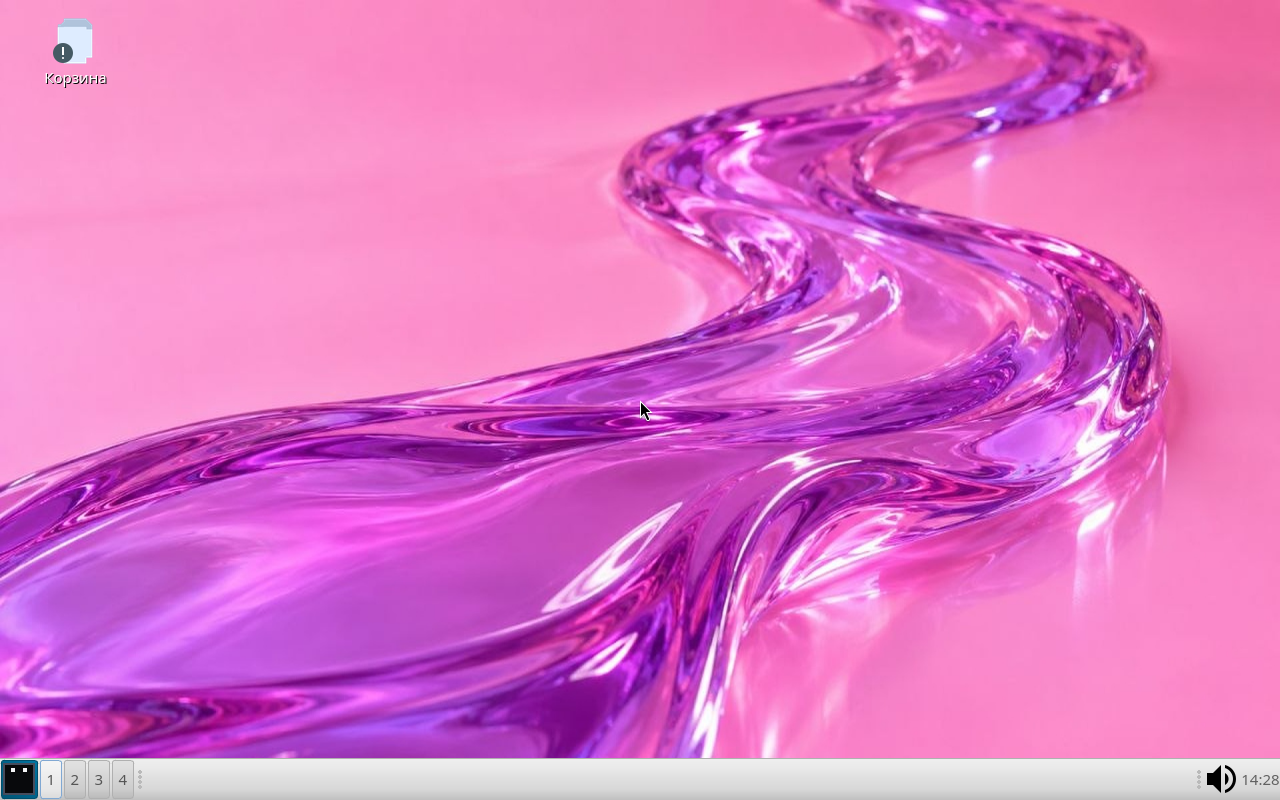
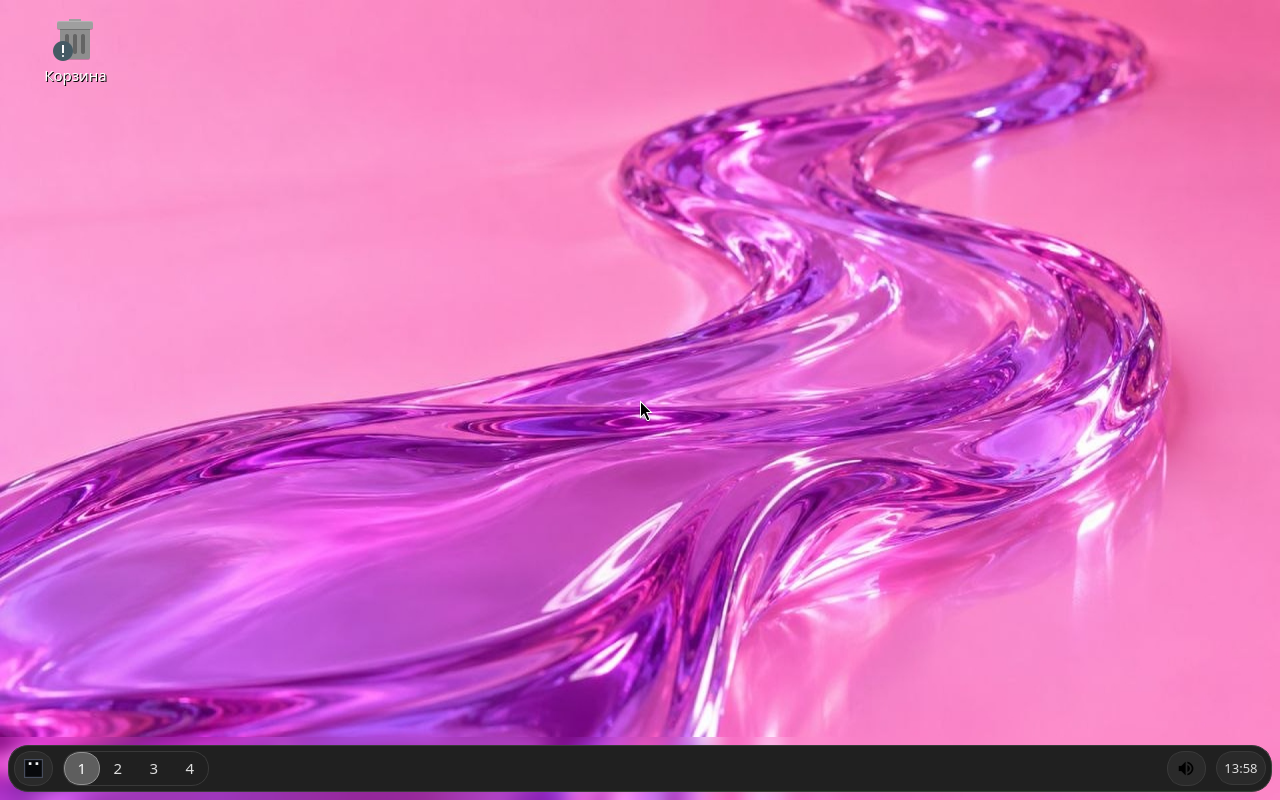
README: скриншоты Onyxian-Rounded из CI smoke-теста (BIOS + EFI/OVMF), актуальный текст про CI и автологин anon; кадры menu/terminal старой темы убраны до пересъёмки; docs/screens исключены из триггеров CI

Changed region(s): [[0.0, 0.9062, 1.0, 1.0], [0.0312, 0.0, 0.0938, 0.125]]

diff --git a/README.md b/README.md
@@ -55,15 +55,19 @@ Debian**: только база, наш рабочий стол и наш бре
 
 ## Скриншоты
 
-Кадры из live-образа (QEMU, Debian trixie, LXQt 2.1 + picom):
+Кадры из live-образа (QEMU, Debian trixie, LXQt 2.1 + picom, тема
+Onyxian-Rounded + Kvantum Orchis-solidDark):
 
 ![Меню загрузчика PhotonOS](docs/screens/grub.png)
 
-![Рабочий стол PhotonOS — панель-док с фирменным логотипом, часы, трей](docs/screens/desktop.png)
+![Рабочий стол PhotonOS — Onyxian-Rounded: плавающая панель-док, куб-меню, часы, трей](docs/screens/desktop.png)
 
-| Меню приложений | photon-fetch в qterminal |
-| --- | --- |
-| ![Меню приложений PhotonOS](docs/screens/menu.png) | ![photon-fetch в qterminal](docs/screens/terminal.png) |
+![Тот же рабочий стол при EFI-загрузке (OVMF)](docs/screens/efi.png)
+
+Загрузка в обоих режимах (BIOS isolinux и EFI OVMF) проверяется
+автоматически в CI: smoke-тест грузит ISO в QEMU, снимает скриншоты
+через QMP, ждёт телеметрии photon-diag (PID lxqt-session) и проверяет,
+что кадры не чёрные.
 
 ## Состав репозитория
 
@@ -96,17 +100,20 @@ apt install mmdebstrap squashfs-tools xorriso mtools dosfstools
 ./build/build-iso.sh          # результат: dist/PhotonOS-live-amd64-<дата>.iso
 ```
 
-CI собирает ISO на каждый push в `main` — образ доступен артефактом сборки
-(вкладка Actions). Загрузка: BIOS (isolinux) и EFI (grub), live-пользователь
-`user` с паролем `live` (стандарт Debian live).
+CI собирает ISO на каждый push в `debian`/`main` (плюс катящийся релиз
+«iso» — последний образ всегда доступен публично) и сразу прогоняет
+smoke-тест: загрузка ISO в QEMU в BIOS и EFI (OVMF) режимах со
+скриншотами и serial-диагностикой. Live-сессия: автологин под
+пользователем `anon` без пароля.
 
 ## Сборка из исходников — планы
 
 - [x] Перевод на базу Debian, минимизация
 - [x] Фирменная загрузка photon-boot и логотип
-- [x] LXQt в духе Deepin
+- [x] LXQt + тема Onyxian-Rounded (Kvantum Orchis-solidDark)
+- [x] EFI-загрузка (grub-mkstandalone + El Torito, проверена с OVMF в CI)
 - [ ] ppm: порт с XBPS на apt
-- [ ] Установщик на диск (порт с Void-версии)
+- [ ] Установщик на диск (PyQt6, Debian-порт — отлаживается)
 - [ ] Фирменные приложения
 
 ## Лицензия
